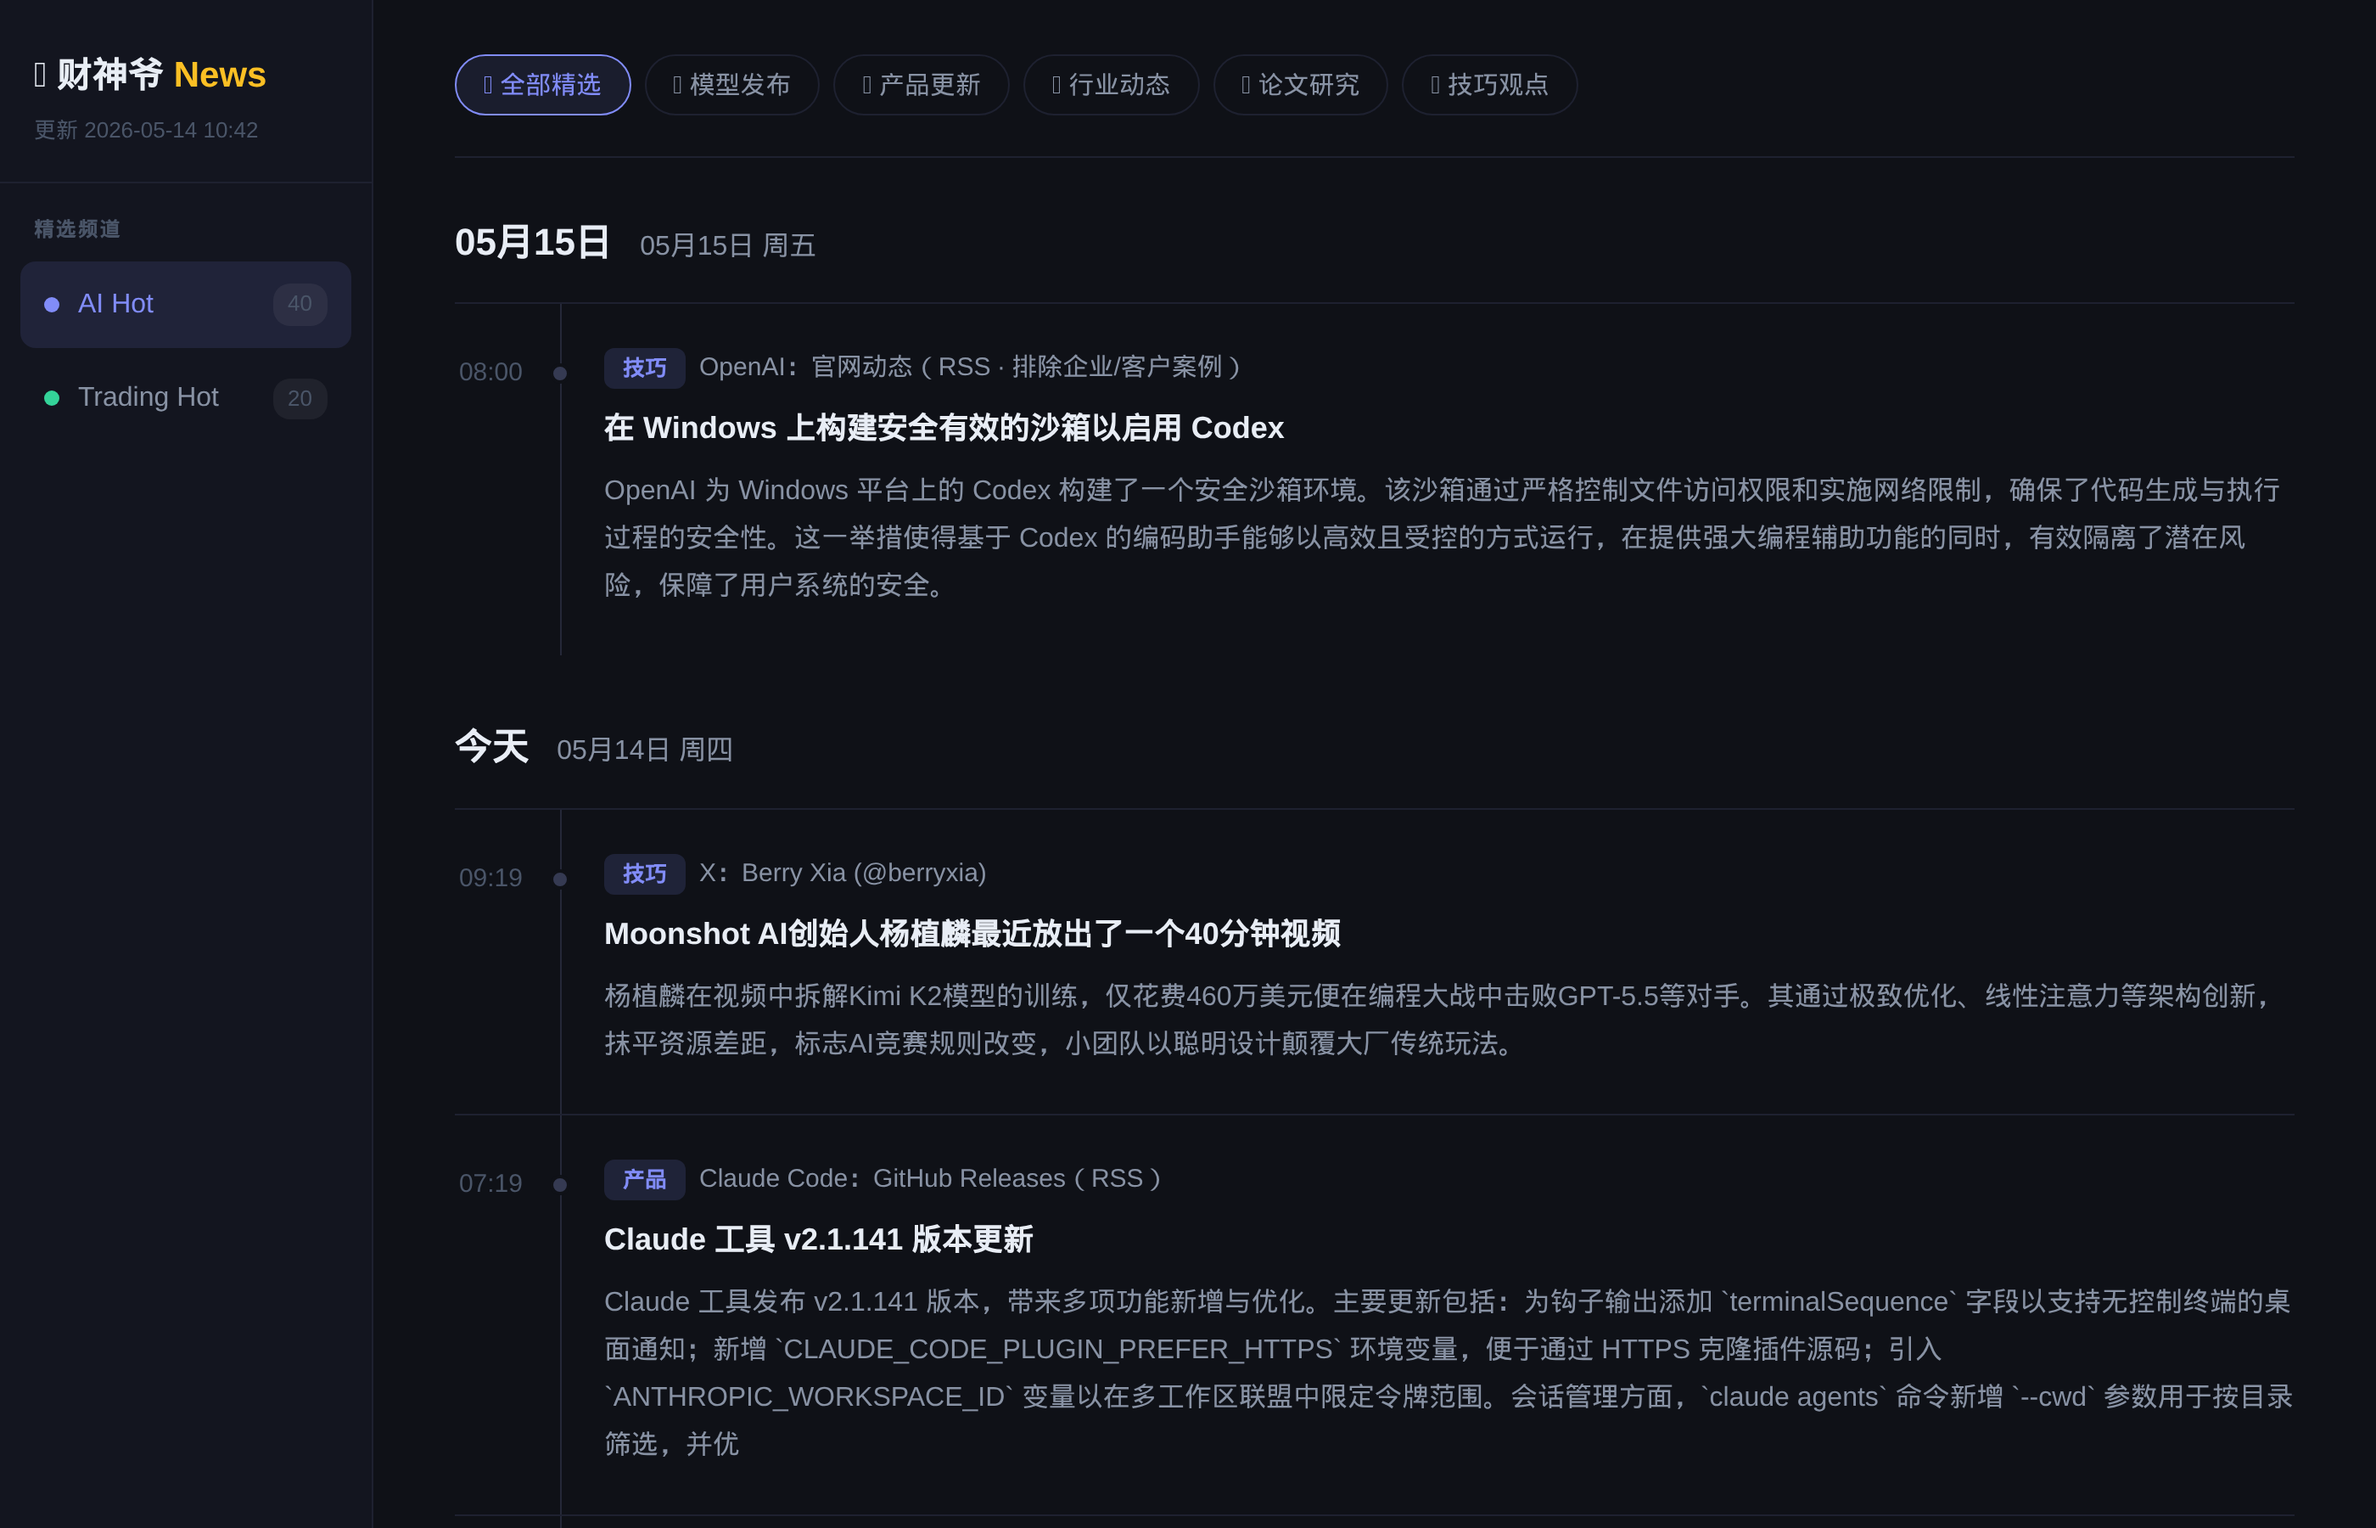
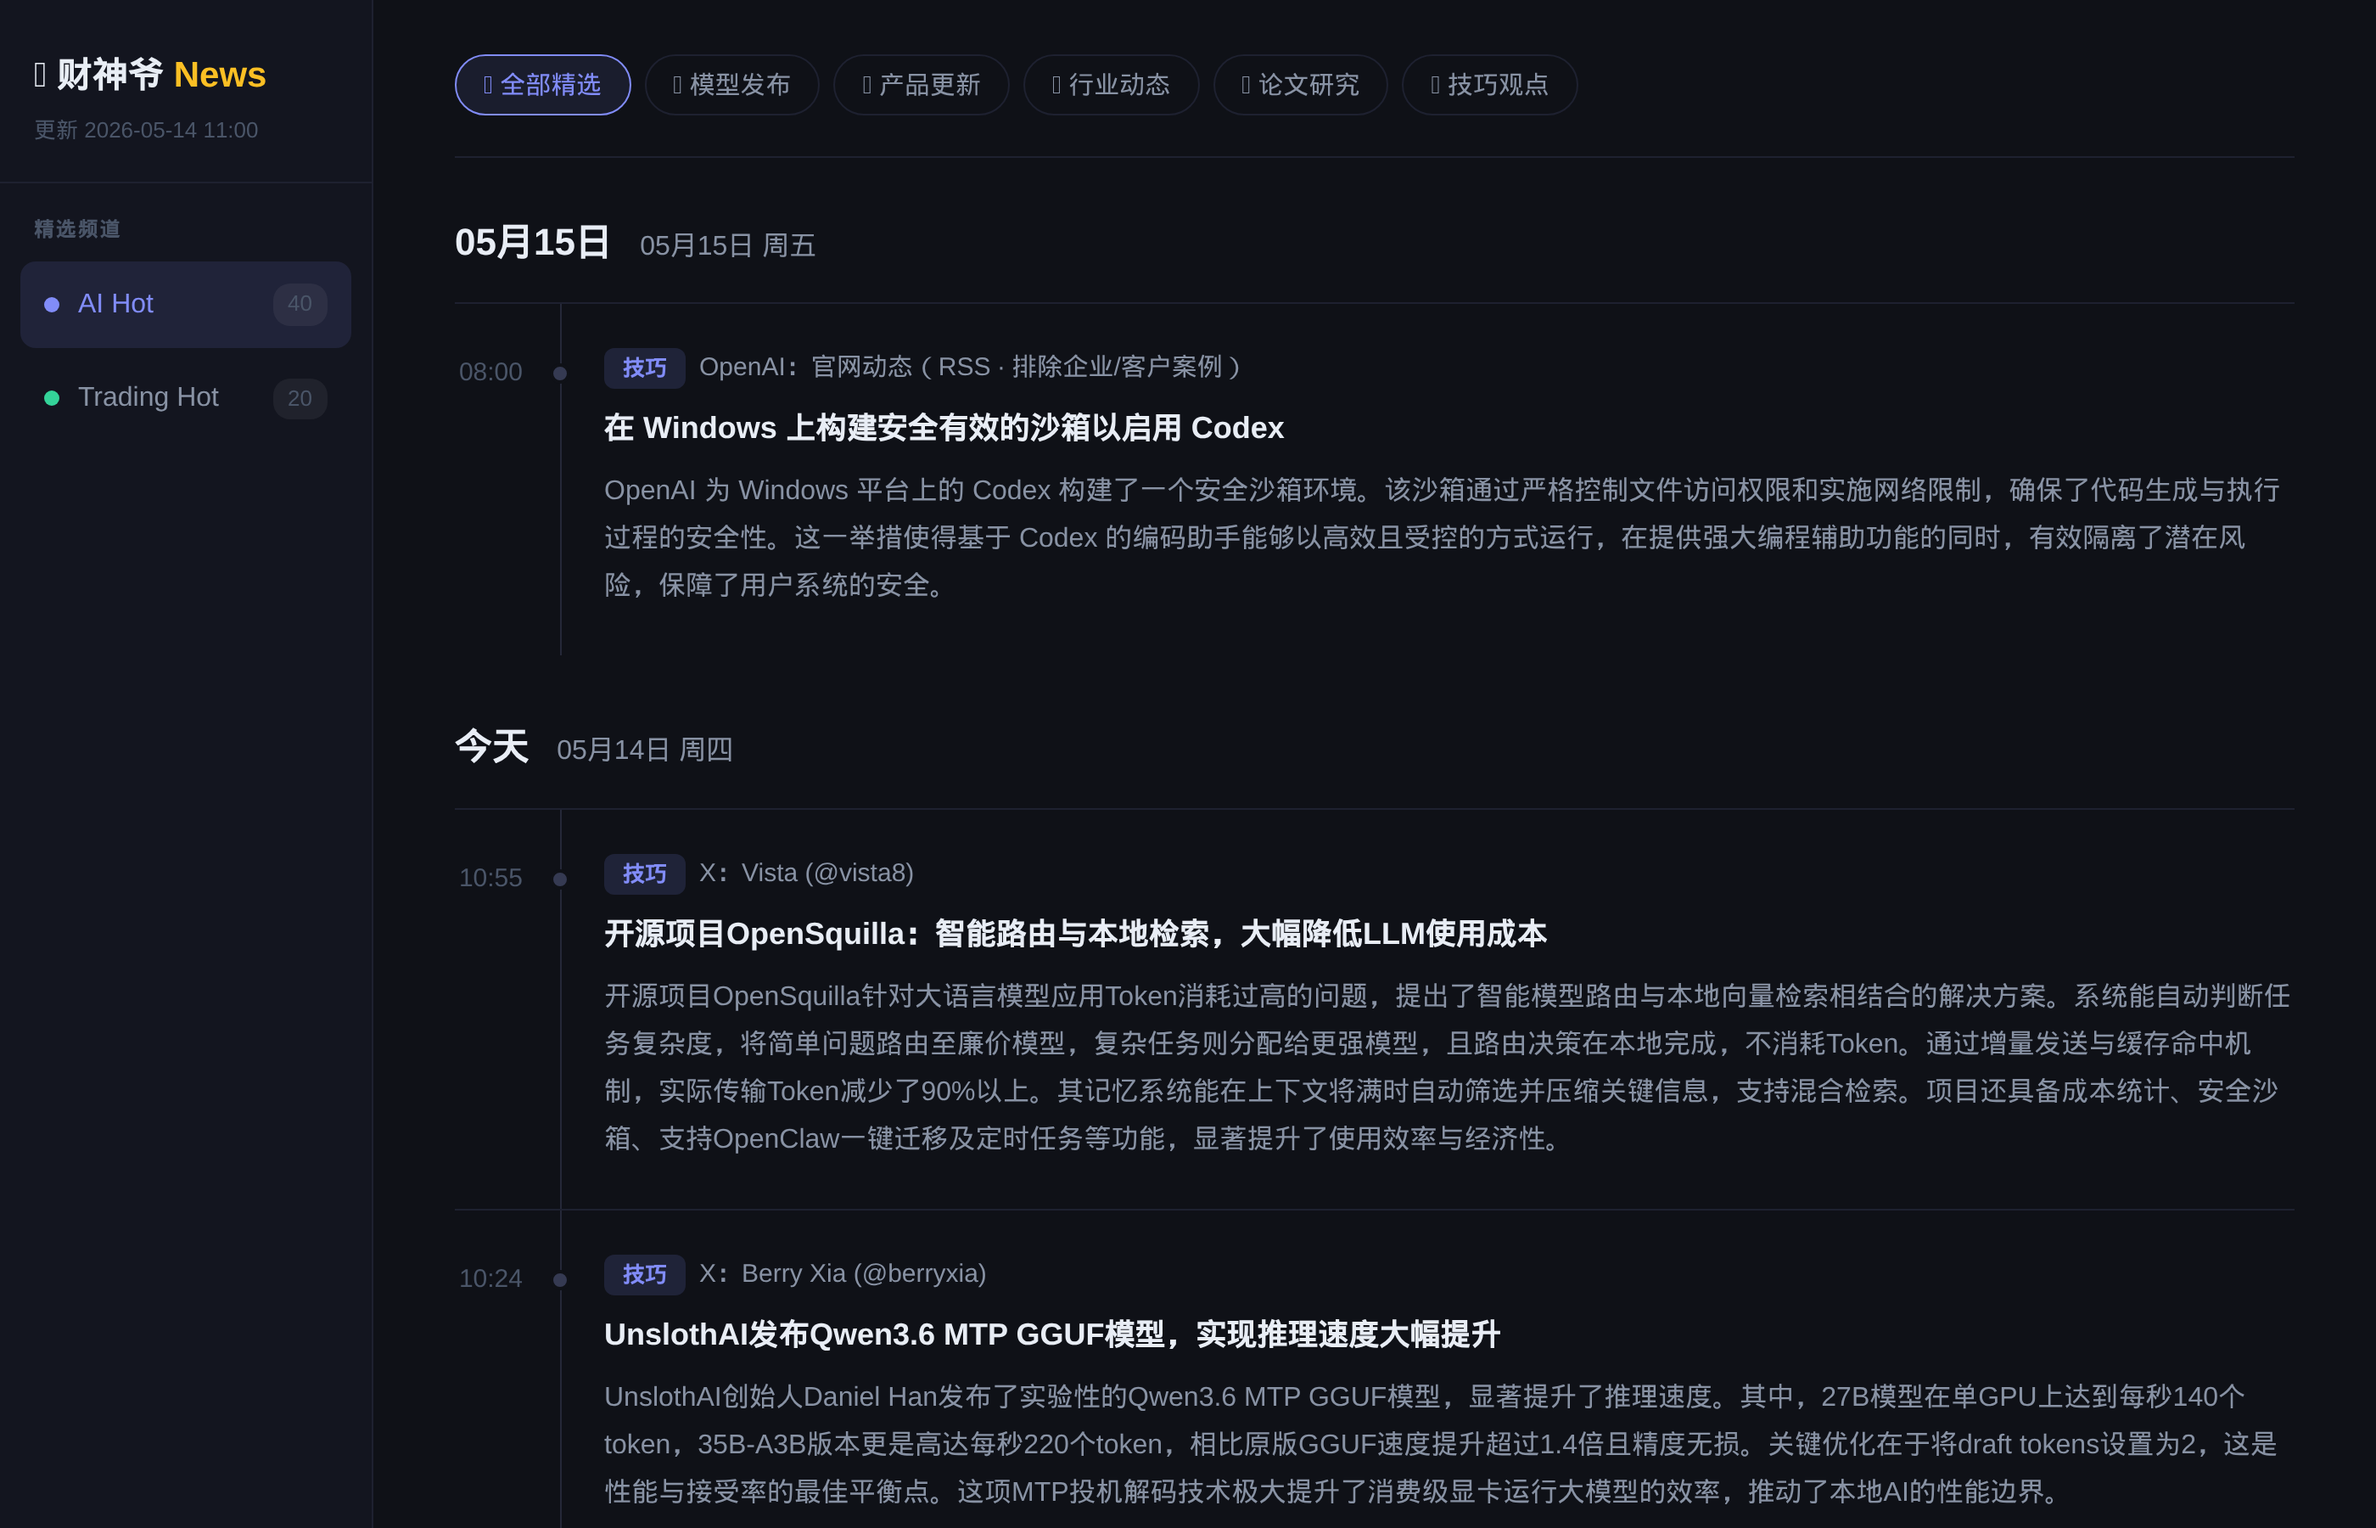
auto update 2026-05-14 11:01

Changed region(s): [[0.2486, 0.56, 0.9632, 0.9956]]

diff --git a/index.html b/index.html
@@ -106,7 +106,7 @@ body{font-family:-apple-system,BlinkMacSystemFont,"Segoe UI","PingFang SC","Micr
 <body>
 <aside class="sb">
   <div class="sb-logo">💰 财神爷 <span>News</span>
-    <div class="sb-up">更新 2026-05-14 10:42</div>
+    <div class="sb-up">更新 2026-05-14 11:00</div>
   </div>
   <nav class="sb-nav">
     <div class="nav-lbl">精选频道</div>
@@ -137,6 +137,24 @@ body{font-family:-apple-system,BlinkMacSystemFont,"Segoe UI","PingFang SC","Micr
     <div class="dgroup">
       <div class="dheader">今天 <span class='dsub'>05月14日 周四</span></div>
       <div class="ilist">
+      <div class="item" data-cats="tip">
+        <div class="item-time">10:55</div>
+        <div class="item-body">
+          <div class="item-meta"><span class="badge badge-ai">技巧</span><span class="isrc">X：Vista (@vista8)</span></div>
+          <a class="item-title" href="https://x.com/vista8/status/2054757474100760626" target="_blank" rel="noopener">开源项目OpenSquilla：智能路由与本地检索，大幅降低LLM使用成本</a>
+          <div class="item-summary">开源项目OpenSquilla针对大语言模型应用Token消耗过高的问题，提出了智能模型路由与本地向量检索相结合的解决方案。系统能自动判断任务复杂度，将简单问题路由至廉价模型，复杂任务则分配给更强模型，且路由决策在本地完成，不消耗Token。通过增量发送与缓存命中机制，实际传输Token减少了90%以上。其记忆系统能在上下文将满时自动筛选并压缩关键信息，支持混合检索。项目还具备成本统计、安全沙箱、支持OpenClaw一键迁移及定时任务等功能，显著提升了使用效率与经济性。</div>
+        </div>
+      </div>
+
+      <div class="item" data-cats="tip">
+        <div class="item-time">10:24</div>
+        <div class="item-body">
+          <div class="item-meta"><span class="badge badge-ai">技巧</span><span class="isrc">X：Berry Xia (@berryxia)</span></div>
+          <a class="item-title" href="https://x.com/berryxia/status/2054749585520890314" target="_blank" rel="noopener">UnslothAI发布Qwen3.6 MTP GGUF模型，实现推理速度大幅提升</a>
+          <div class="item-summary">UnslothAI创始人Daniel Han发布了实验性的Qwen3.6 MTP GGUF模型，显著提升了推理速度。其中，27B模型在单GPU上达到每秒140个token，35B-A3B版本更是高达每秒220个token，相比原版GGUF速度提升超过1.4倍且精度无损。关键优化在于将draft tokens设置为2，这是性能与接受率的最佳平衡点。这项MTP投机解码技术极大提升了消费级显卡运行大模型的效率，推动了本地AI的性能边界。</div>
+        </div>
+      </div>
+
       <div class="item" data-cats="tip">
         <div class="item-time">09:19</div>
         <div class="item-body">
@@ -530,32 +548,6 @@ Qwen 3.6 Plus现于Nous Portal限时免费--快来尝试吧。⚡</div>
           <div class="item-summary">Google 正式推出首款为 Gemini Intelligence 设计的笔记本 Googlebook，标志着从&quot;云优先&quot;的 Chromebook 时代进入&quot;AI 优先&quot;新阶段。其核心创新包括：Magic Pointer 将系统光标变为 AI 交互入口，可直接触发上下文建议与任务；Create Your Widget 允许通过自然语言生成聚合多源信息的动态桌面小组件；深度整合 Android 生态，实现手机 App 无缝调用与文件跨设备快速访问。该产品以 Gemini 为核</div>
         </div>
       </div>
-
-      <div class="item" data-cats="ai-products">
-        <div class="item-time">08:29</div>
-        <div class="item-body">
-          <div class="item-meta"><span class="badge badge-ai">产品</span><span class="isrc">X：Berry Xia (@berryxia)</span></div>
-          <a class="item-title" href="https://x.com/berryxia/status/2054358231791923392" target="_blank" rel="noopener">无需注册付费，Telegram内一键启动AI智能体</a>
-          <div class="item-summary">牛逼！Browser Use 今天把&quot;AI agent 即用即走&quot;做到了极致。
-
-BuxFather：Telegram 里直接 Spin up agent，无需任何注册付费，24/7 自主运行 + 自改进，还带 stealth browser。
-
-几下点击就有完整电脑 + 浏览器环境。
-
-这波对重度 Telegram 用户来说真的爽了！
-
-https：//x.com/browser_use/status/2054330495249564094/video/1</div>
-        </div>
-      </div>
-
-      <div class="item" data-cats="ai-products">
-        <div class="item-time">08:00</div>
-        <div class="item-body">
-          <div class="item-meta"><span class="badge badge-ai">产品</span><span class="isrc">X：Claude Devs (@ClaudeDevs)</span></div>
-          <a class="item-title" href="https://x.com/ClaudeDevs/status/2054351031279186040" target="_blank" rel="noopener">Claude Code新增/goal功能确保任务完成</a>
-          <div class="item-summary">如何让Claude持续工作直至任务完成？Claude Code通过几种方式提供帮助，包括我们最近推出的功能：/goal。</div>
-        </div>
-      </div>
       </div>
     </div>
   </div>
@@ -624,7 +616,7 @@ https：//x.com/browser_use/status/2054330495249564094/video/1</div>
         </div>
       </div>
 
-      <div class="item" data-cats="top geo">
+      <div class="item" data-cats="geo top">
         <div class="item-time">04:14</div>
         <div class="item-body">
           <div class="item-meta"><span class="badge badge-trading">市场异动</span><span class="score-badge">67分</span><span class="isrc">华尔街见闻</span></div>
@@ -654,7 +646,7 @@ https：//x.com/browser_use/status/2054330495249564094/video/1</div>
         </div>
       </div>
 
-      <div class="item" data-cats="top geo">
+      <div class="item" data-cats="geo top">
         <div class="item-time">02:43</div>
         <div class="item-body">
           <div class="item-meta"><span class="badge badge-trading">市场异动</span><span class="score-badge">72分</span><span class="isrc">CNBC Top News</span><span class="ticker">$C</span></div>
@@ -674,7 +666,7 @@ https：//x.com/browser_use/status/2054330495249564094/video/1</div>
         </div>
       </div>
 
-      <div class="item" data-cats="top geo">
+      <div class="item" data-cats="geo top">
         <div class="item-time">02:11</div>
         <div class="item-body">
           <div class="item-meta"><span class="badge badge-trading">市场异动</span><span class="score-badge">72分</span><span class="isrc">CNBC Top News</span><span class="ticker">$C</span></div>
@@ -684,7 +676,7 @@ https：//x.com/browser_use/status/2054330495249564094/video/1</div>
         </div>
       </div>
 
-      <div class="item" data-cats="top macro geo">
+      <div class="item" data-cats="geo top macro">
         <div class="item-time">02:10</div>
         <div class="item-body">
           <div class="item-meta"><span class="badge badge-trading">市场异动</span><span class="score-badge">72分</span><span class="isrc">CNBC Top News</span><span class="ticker">$C</span></div>
